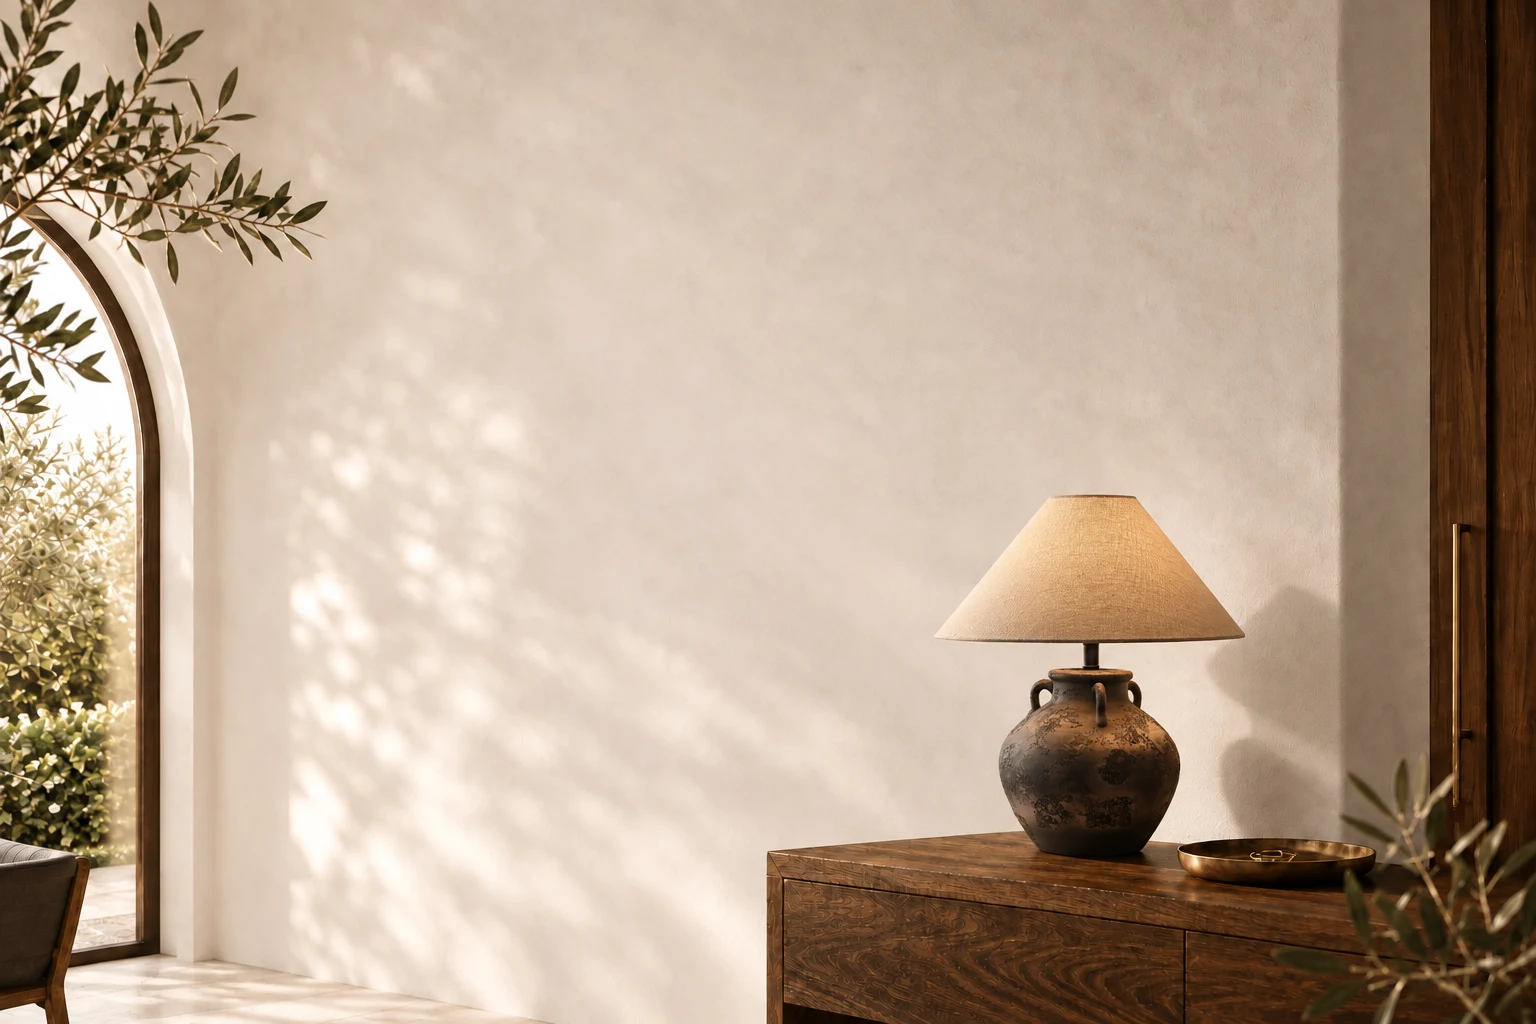
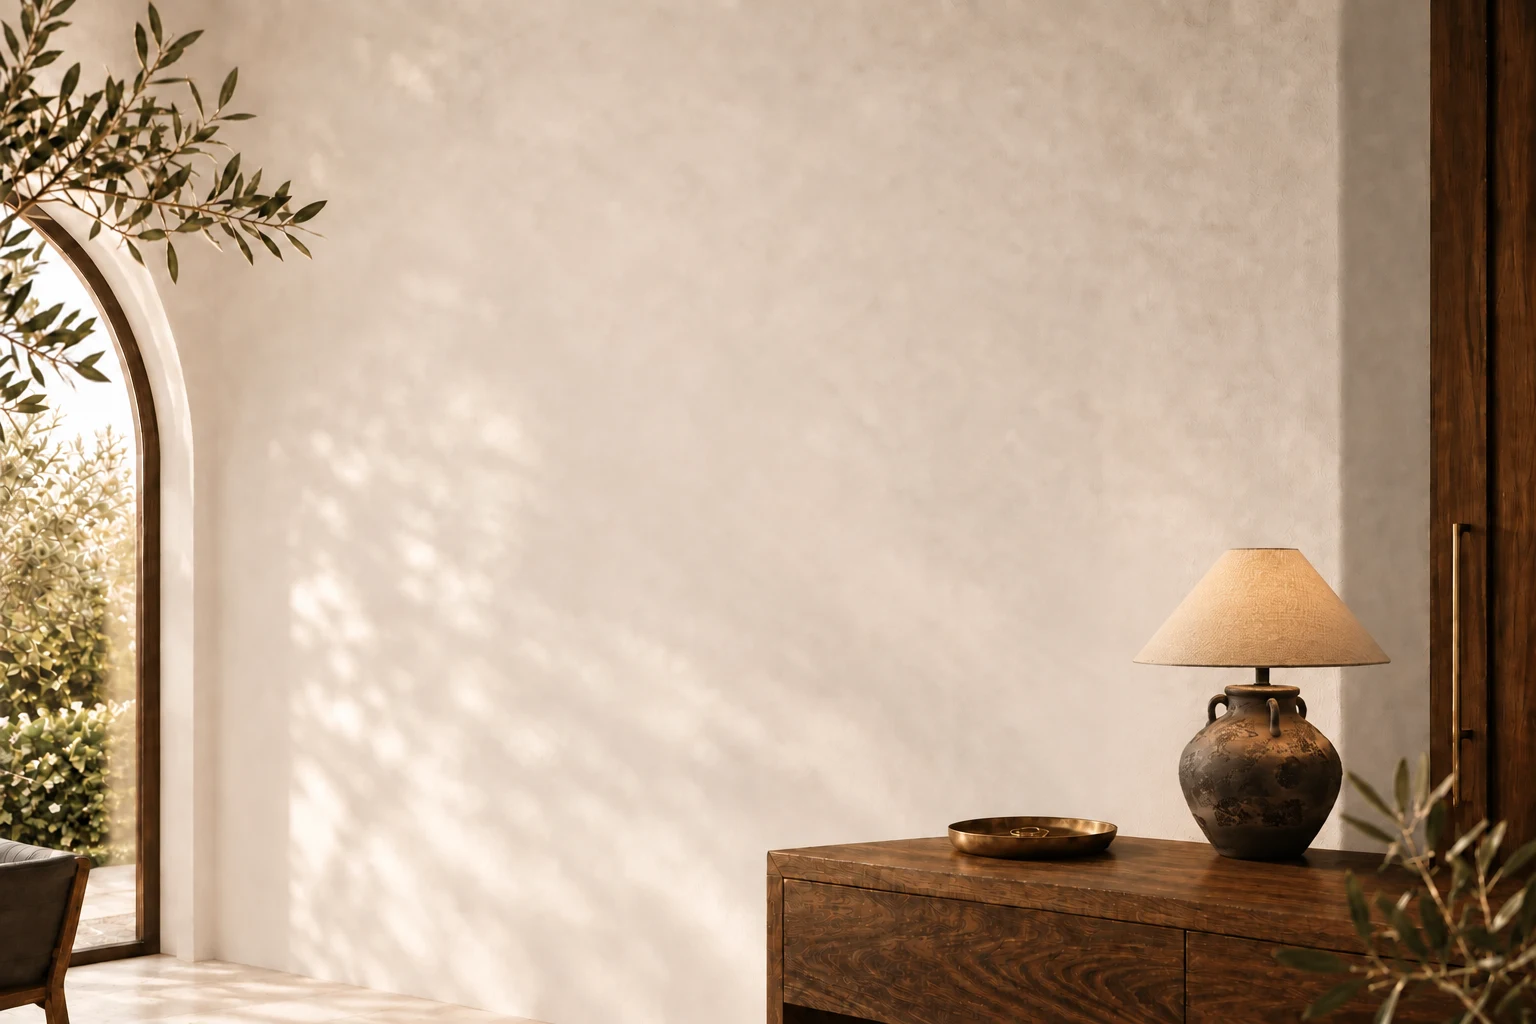
Keep lamp clear of hero copy

diff --git a/docs/HERO_CERAMIC_LAMP.md b/docs/HERO_CERAMIC_LAMP.md
@@ -4,4 +4,12 @@ Built-in image generation edit using the original welcome background and the use
 
 ## Prompt
 
+Final composition refinement:
+
+Edit image 1 existing hero background only. Replace its ivory vase with the complete lamp in image 2, preserving the exact dark mottled ceramic urn base, loop handles, black neck and wide flax tapered shade. Critical composition: put the lamp farther right on the console, centered at x=1250 in a 1536x1024 image, base bottom y=860, whole lamp about 260 pixels tall and 220 pixels wide. Entire lamp including shade must stay to the RIGHT of x=1140, leaving central wall blank for website headline. Move the brass tray slightly right if needed to accommodate. Keep all other architecture, olive branches, wood console, plaster, light, shadows and camera framing identical to image1. Lamp must be naturally scaled with coherent sunlight/contact shadows. Real photographic edit, no text, no logo, no UI, no border. Output1536x1024.
+
+Precise object relocation edit: move the entire existing ceramic lamp and its shade in this image 160 pixels to the RIGHT on the same console tabletop. Keep identical size and bottom height. Its base should occupy the current brass tray location; move the brass tray LEFT to the lamp's old position. Erase old lamp and its shadow, fill with matching blank plaster. New shade centered x1270 on1536pxcanvas, leftedge1140. Preserve everything else exactly, same camera and1536x1024frame. No text.
+
+Initial direction:
+
 Use case: precise-object-edit. Image 1 is the edit target, the existing Louie Mae website hero background. Image 2 is the exact replacement product reference. Replace ONLY the ivory vase sitting on the wooden console at lower right of image 1 with the complete table lamp from image 2: dark aged brown mottled ceramic round urn base with little loop handles, short dark stem and wide warm flax woven tapered shade. Keep product silhouette, handles, patina and shade proportions faithful to reference. Place lamp on the exact same tabletop location, realistically scaled, base about the same size as existing vase, overall lamp taller with shade above. Match existing sunlight from left, contact shadows and perspective, authentic high-end camera photograph. Preserve original room, composition, archway, olive branches, console, brass tray, plaster texture, dimensions and large empty central wall for website text. Lamp and shade must stay on right side and not intrude on center text area. Output 1536x1024 landscape background only. No text, no logos, no border, no UI. Do not copy screenshot white background or caption.
